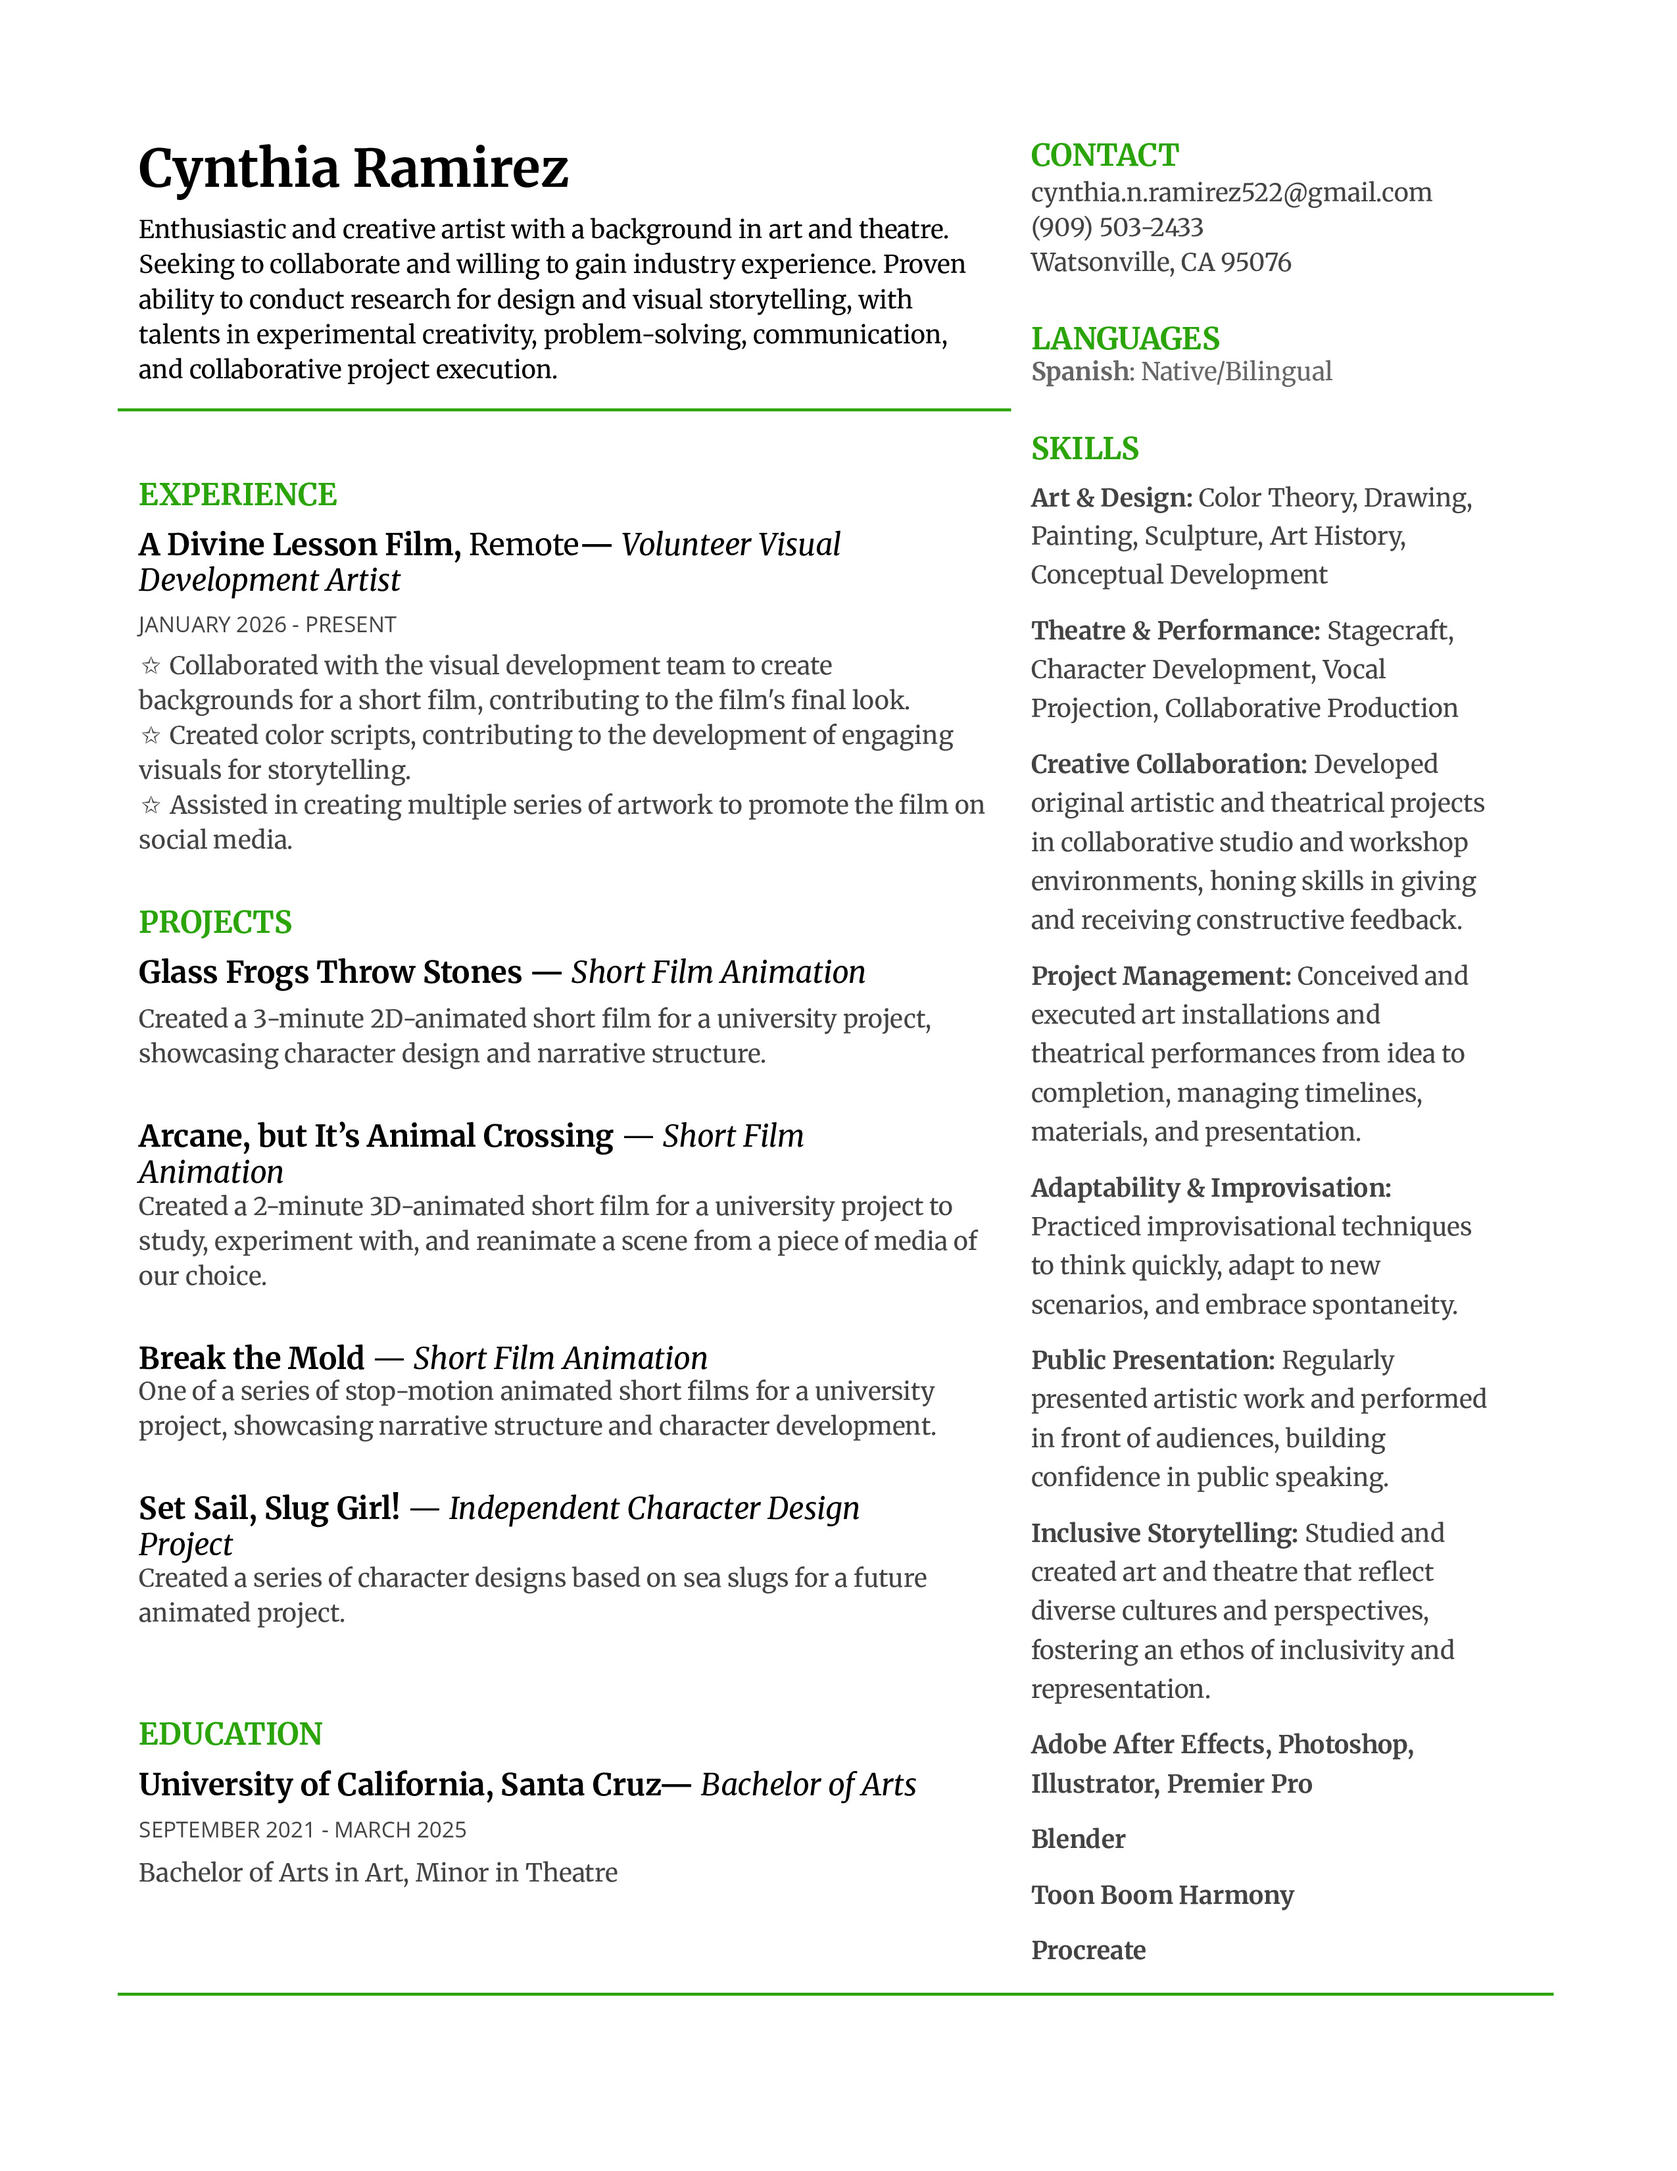
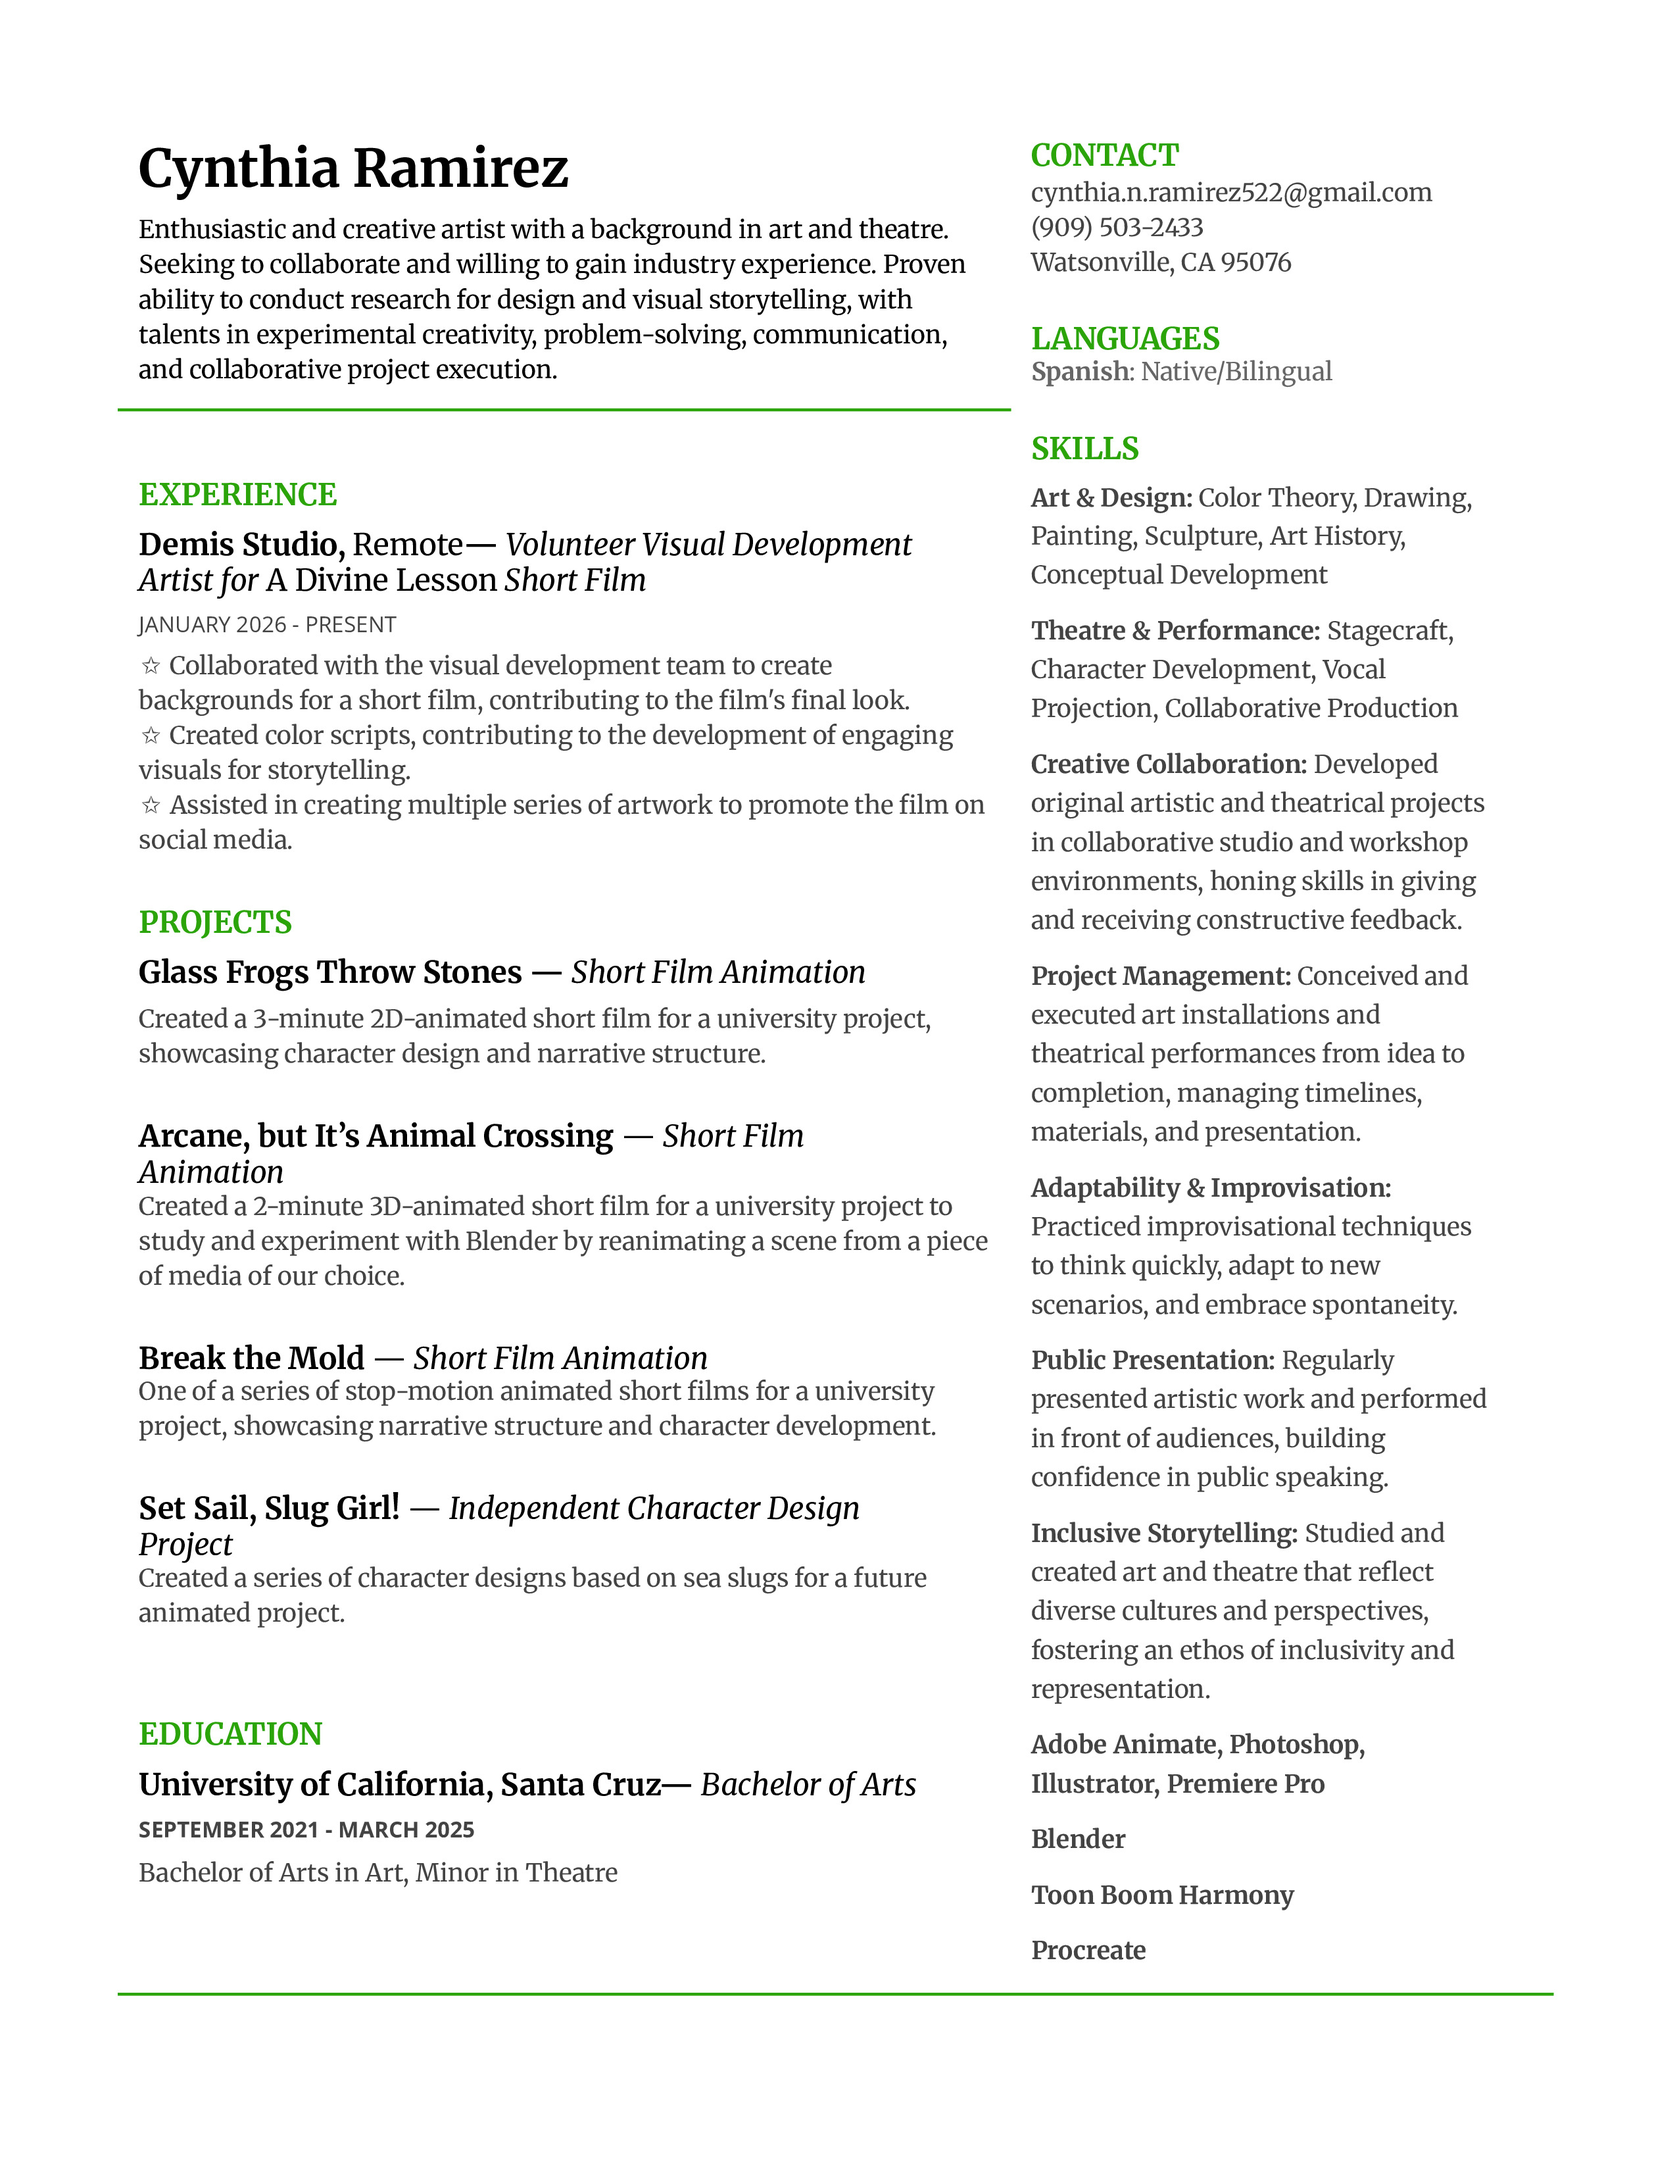
Added and updated images

diff --git a/index.html b/index.html
@@ -434,9 +434,10 @@
 	  <p>3508 x 2480 pixels</p>
 	  <p>Digital Drawing</p>
 		<br>
-	  <img src="./img/SSSG_AtlanticaOutfits.jpeg" width="45%">
-	  <img src="./img/SSSG_ShimaOutfits.jpeg" width="45%">
-	  <p><i>Atlantica and Shima - Outfit Concepts</i></p>
+	  <img src="./img/SSSG_AtlanticaOutfits.jpeg" width="33%">
+	  <img src="./img/SSSG_ShimaOutfits.jpeg" width="33%">
+	  <img src="./img/SSSG_CeraOutfits.jpeg" width="33%">
+	  <p><i>Atlantica, Shima, and Cera Rose - Outfit Concepts</i></p>
 	  <p>2048 x 2048 pixels</p>
 	  <p>Digital Drawing</p>
 	    <br>
@@ -584,6 +585,11 @@
 	  <br>
 	  <img src="./img/SSSG_ShimaOutfits.jpeg" width="50%">
 	  <p><i>Shima - Outfit Concepts</i></p>
+	  <p>2048 x 2048 pixels</p>
+	  <p>Digital Drawing</p>
+	  <br>
+	  <img src="./img/SSSG_CeraOutfits.jpeg" width="50%">
+	  <p><i>Cera Rose - Outfit Concepts</i></p>
 	  <p>2048 x 2048 pixels</p>
 	  <p>Digital Drawing</p>
   	</div> 
